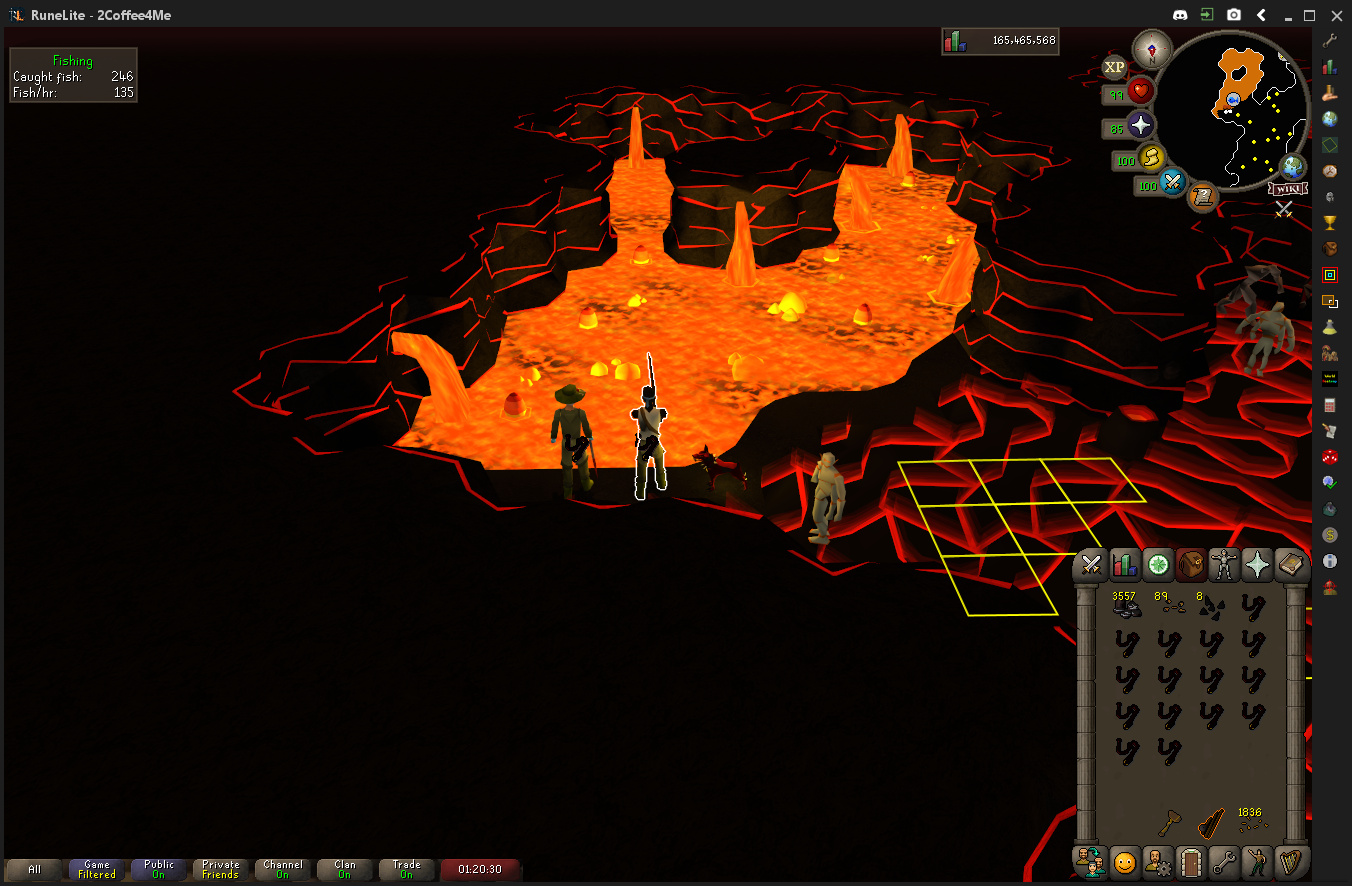
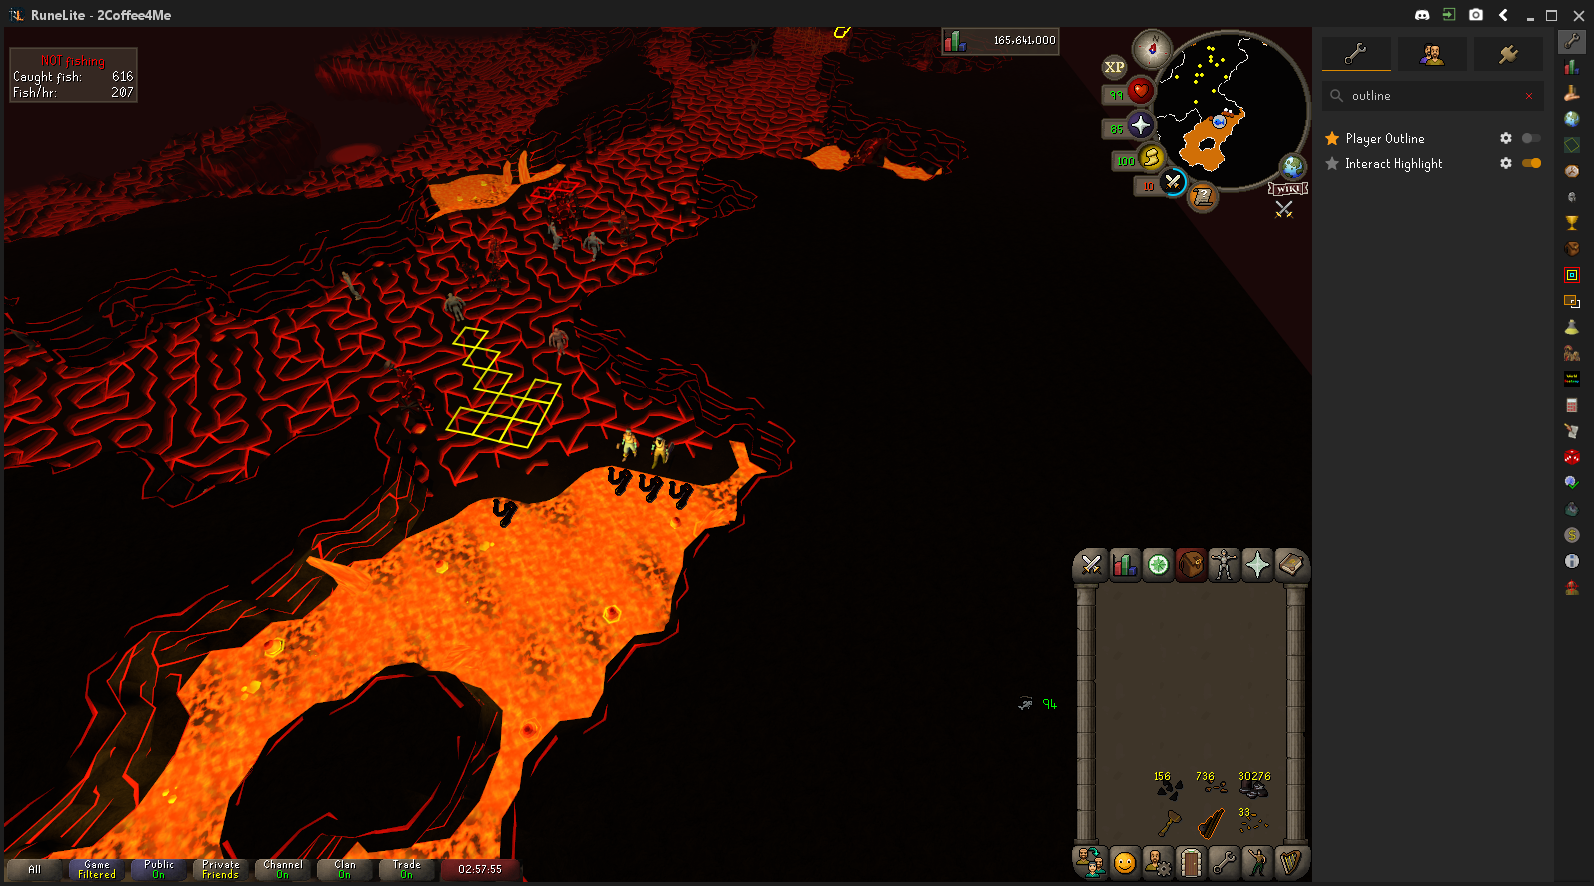
Added mouse functions
desc

diff --git a/common.py b/common.py
@@ -2,6 +2,7 @@
 import numpy as np
 import win32gui
 from PIL import Image, ImageGrab
+import pytesseract
 import pyautogui
 import math
 import time
@@ -17,6 +18,8 @@ runelite = 'RuneLite'
 winiD = -1
 window_x = 1920
 window_y = 1080
+tesseract_path = r'..\\..\\Tesseract-OCR\\tesseract.exe'
+can_see_inv = False
 
 #Functions ---------------------------------------------------------
 def find_window(DEBUG=False):  # find window name returns PID of the window, needs to be run first to establish the PID
@@ -26,9 +29,11 @@ def find_window(DEBUG=False):  # find window name returns PID of the window, nee
         if DEBUG:
             # print('Window enum fails after it works for some reason, I dont know what I am doing.')
             # Example on how to move and resize a window if needed, for debug it 
-            win32gui.MoveWindow(globals()['winiD'], 0, 0, int(globals()['window_x']/2), globals()['window_y'], True)
+            win32gui.MoveWindow(winiD, 0, 0, int(window_x/2), window_y, True)
     if globals()['winiD'] != -1:
         winiD = globals()['winiD']
+        # Mention the installed location of Tesseract-OCR in your system
+        pytesseract.pytesseract.tesseract_cmd = tesseract_path
         # win32gui.SetActiveWindow(winiD)
         if DEBUG:
             left, top, right, bottom = get_window_rect()
@@ -38,8 +43,13 @@ def find_window(DEBUG=False):  # find window name returns PID of the window, nee
     else:
         return False
 
+# Returns left, right, top, bottom
 def get_window_rect():
-    rect = win32gui.GetWindowRect(globals()['winiD'])
+    rect = win32gui.GetWindowRect(winiD)
+    # If the window isnt on the main monitor we need to move it so everything can work
+    # I'll try to work on a way to handle multiple monitors at some point :^)
+    # if len(rect) == 0:
+    #    win32gui.MoveWindow(winiD, 0, 0, rect[2]-rect[0], rect[3]-rect[1], True)
     return rect[0], rect[1], rect[2], rect[3]
 
 #Callback function for EnumWindows, once it finds the window its looking for, sets the global to the PID
@@ -59,10 +69,108 @@ def screen_image(x1=None, y1=None, x2=None, y2=None, name='screenshot.png', DEBU
     # Get the image via cv2 so I don't have to worry about whatever format it wants
     return cv2.imread('images/screenshot.png')
 
+def get_action_text(DEBUG=False):
+    scale = 300
+    left, top, right, bottom = get_window_rect()
+    # I don't identify the locaiton of the fishing/mining/woodcutting text, make sure it's dragged to the top,left area
+    screen_image(left+30, top+50, left+130, top+70, 'Session_Action.png')
+    img = resize_image(cv2.imread('images/Session_Action.png'), scale)
+    if DEBUG:
+        debug_view(img)
+
+    # Need to mask for green and red 
+    boundaries=[([0, 250, 0], [10, 255, 10])]
+    boundaries_not=[([0, 0, 250], [10, 10, 255])]
+    for (lower, upper) in boundaries:
+        # create NumPy arrays from the boundaries
+        lower = np.array(lower, dtype="uint8")
+        upper = np.array(upper, dtype="uint8")
+        img_g = copy.deepcopy(img)
+        # find the colors within the specified boundaries and apply the mask
+        mask_g = cv2.inRange(img_g, lower, upper)
+        output = cv2.bitwise_and(img_g, img_g, mask=mask_g)
+        ret, thresh_g = cv2.threshold(mask_g, 40, 255, 0)
+
+    for (lower, upper) in boundaries_not:
+        # create NumPy arrays from the boundaries
+        lower = np.array(lower, dtype="uint8")
+        upper = np.array(upper, dtype="uint8")
+        img_r = copy.deepcopy(img)
+        # find the colors within the specified boundaries and apply the mask
+        mask_r = cv2.inRange(img_r, lower, upper)
+        output = cv2.bitwise_and(img_r, img_r, mask=mask_r)
+        ret, thresh_r = cv2.threshold(mask_r, 40, 255, 0)
+    
+    # Specify structure shape and kernel size.
+    # Kernel size increases or decreases the area
+    # of the rectangle to be detected.
+    # A smaller value like (10, 10) will detect
+    # each word instead of a sentence.
+    rect_kernel_g = cv2.getStructuringElement(cv2.MORPH_RECT, (10, 10))
+    rect_kernel_r = cv2.getStructuringElement(cv2.MORPH_RECT, (20, 20))
+    
+    # Applying dilation on the threshold image
+    dilation_g = cv2.dilate(thresh_g, rect_kernel_g, iterations = 1)
+    dilation_r = cv2.dilate(thresh_r, rect_kernel_r, iterations = 1)
+    
+    # Finding contours
+    contours_g, hierarchy = cv2.findContours(dilation_g, cv2.RETR_EXTERNAL,
+                                                    cv2.CHAIN_APPROX_NONE)
+    contours_r, hierarchy = cv2.findContours(dilation_r, cv2.RETR_EXTERNAL,
+                                                    cv2.CHAIN_APPROX_NONE)
+    if DEBUG:
+        draw_contour = cv2.drawContours(copy.deepcopy(img), contours_g, 0, color=(255,0,0), thickness=2)
+        debug_view(draw_contour, "Contours Fishing")
+        draw_contour = cv2.drawContours(copy.deepcopy(img), contours_r, 0, color=(255,0,0), thickness=2)
+        debug_view(draw_contour, "Contours NOT Fishing")
+
+    # Creating a copy of image
+    im2 = img.copy()
+    im3 = img.copy()
+    
+    # Looping through the identified contours
+    # Then rectangular part is cropped and passed on
+    # to pytesseract for extracting text from it
+    working = False
+    not_working = False
+
+    for cnt in contours_g:
+        x, y, w, h = cv2.boundingRect(cnt)
+        # Cropping the text block for giving input to OCR
+        cropped = im2[y:y + h, x:x + w]
+        text = pytesseract.image_to_string(cropped)
+        working = True
+
+        if DEBUG:
+            # Drawing a rectangle on copied image
+            rect = cv2.rectangle(im2, (x, y), (x + w, y + h), (0, 255, 0), 2)
+            print('(GREEN) WE ARE: %s'%(text))
+            debug_view(rect)
+
+    for cnt in contours_r:
+        x, y, w, h = cv2.boundingRect(cnt)
+        # Cropping the text block for giving input to OCR
+        cropped = im3[y:y + h, x:x + w]
+        text = pytesseract.image_to_string(cropped)
+        not_working = True
+
+        if DEBUG:
+            # Drawing a rectangle on copied image
+            rect = cv2.rectangle(im3, (x, y), (x + w, y + h), (0, 255, 0), 2)
+            print('(RED) WE ARE: %s'%(text))
+            debug_view(rect)
+
+    # 2 means there is no action text, or it failed to find anything, this distinction might not be necessary
+    result = 2
+    if working:
+        result = 0
+    elif not_working:
+        result = 1
+    return result
+
 # Covers username top left
 def isolate_min(image):
-    left, top, right, bottom = get_window_rect()
-    image = cv2.rectangle(image, pt1=(left, top), pt2=(200, 25), color=(0, 0, 0), thickness=-1)
+    image = cv2.rectangle(image, pt1=(0, 0), pt2=(200, 25), color=(0, 0, 0), thickness=-1)
     return image
 
 # Block the locations of the username in the client title, the chatbox, and also block the inventory from the image
@@ -87,14 +195,18 @@ def isolate_playspace(image):
 
 def grab_inventory(img, DEBUG=False):
     image = copy.deepcopy(img)
-    [x1, y1, x2, y2] = find_inventory(image, DEBUG=DEBUG)
-    left, top, right, bottom = get_window_rect()
-    screen_image(x1+left, y1+top, x2+left, y2+top, 'Session_Inventory.png', DEBUG=DEBUG)
+    try:
+        [x1, y1, x2, y2] = find_inventory(image, DEBUG=DEBUG)
+        left, top, right, bottom = get_window_rect()
+        screen_image(x1+left, y1+top, x2+left, y2+top, 'Session_Inventory.png', DEBUG=DEBUG)
 
-    if DEBUG:
-        debug_view(image, "Session Inv")
-
-    return image
+        if DEBUG:
+            debug_view(image, "Session Inv")
+        can_see_inv = True
+        return image
+    except:
+        can_see_inv = False
+        return False
 
 # Locate the inventory on the client screen and returns the corners
 def find_inventory(image, threshold=0.7, DEBUG=False):
@@ -110,7 +222,7 @@ def find_inventory(image, threshold=0.7, DEBUG=False):
         cv2.rectangle(image_gray, pt, (pt[0] + w, pt[1] + h), (0, 0, 255), 2)
         # cv2.circle(image, pt, radius=10, color=(255,0,0), thickness=2)
     try:
-        x1, y1, x2, y2 = pt[0]+20, pt[1]+35, pt[0] + 200, pt[1] + 290
+        x1, y1, x2, y2 = pt[0]+20, pt[1]+35, pt[0] + 200, pt[1] + 293
         if DEBUG:
             cv2.rectangle(image, (x1, y1), (x2, y2), (0, 0, 255), 2)
             print(x1, y1, x2, y2)
@@ -120,8 +232,10 @@ def find_inventory(image, threshold=0.7, DEBUG=False):
         globals()['y1'] = y1
         globals()['x2'] = x2
         globals()['y2'] = y2
+        can_see_inv = True
         return [x1, y1, x2, y2]
     except:
+        can_see_inv = False
         return []
 
 # Locate the chat area on the client screen and returns the corners
@@ -156,8 +270,10 @@ def locate_color(image, boundaries=[([180, 0, 180], [220, 20, 220])], DEBUG=Fals
         output = cv2.bitwise_and(image, image, mask=mask)
         ret, thresh = cv2.threshold(mask, 40, 255, 0)
         contours, hierarchy = cv2.findContours(thresh, cv2.RETR_EXTERNAL, cv2.CHAIN_APPROX_NONE)
+
     if DEBUG:
             cv2.imwrite("images/Locate_Image_DebugPRE.png", image)
+
     if len(contours) != 0:
         # find the biggest countour by the area -> usually implies the closest contour to the camera
         c = max(contours, key=cv2.contourArea)
@@ -187,34 +303,38 @@ def locate_color(image, boundaries=[([180, 0, 180], [220, 20, 220])], DEBUG=Fals
     else:
         return []
     
-def locate_image(img_rgb, filename, threshold=0.7, area='none', name='Screenshot', DEBUG_1=False, DEBUG_2=False):
-    # If the image is expected to be found outside the inventory, inside the inventory, or it does not matter
-        
-    img_gray = cv2.cvtColor(img_rgb, cv2.COLOR_BGR2GRAY)
-    template = cv2.imread('images/' + filename, 0)
-    w, h = template.shape[::-1]
-    pt = None
-    res = cv2.matchTemplate(img_gray, template, cv2.TM_CCOEFF_NORMED)
-    loc = np.where(res >= threshold)
-    items = []
-    # Add a mask to remove duplicate matches
-    mask = np.zeros(img_rgb.shape[:2], np.uint8)
-    for pt in zip(*loc[::-1]):
-        # Add a circle to mark a match
+def locate_image(img_rgb, filename, threshold=0.7, name='Screenshot', DEBUG_1=False, DEBUG_2=False):
+    try:
+        img_gray = cv2.cvtColor(img_rgb, cv2.COLOR_BGR2GRAY)
+        template = cv2.imread('images/' + filename, 0)
+        w, h = template.shape[::-1]
+        pt = None
+        res = cv2.matchTemplate(img_gray, template, cv2.TM_CCOEFF_NORMED)
+        loc = np.where(res >= threshold)
+        items = []
+        # Add a mask to remove duplicate matches
+        mask = np.zeros(img_rgb.shape[:2], np.uint8)
+        for pt in zip(*loc[::-1]):
+            # Add a circle to mark a match
+            if DEBUG_2:
+                cv2.rectangle(img_rgb, pt, (pt[0] + w, pt[1] + h), (255, 0, 0), thickness=1)
+            if mask[pt[1] + int(round(h/2)), pt[0] + int(round(w/2))] != 255:
+                mask[pt[1]:pt[1]+h, pt[0]:pt[0]+w] = 255
+                # An array of points
+                items.append([pt[0]+math.floor(w/2), pt[1]+math.floor(h/2)])
+                if DEBUG_1:
+                    cv2.circle(img_rgb, (pt[0]+math.floor(w/2), pt[1]+math.floor(h/2)), radius=min(math.floor(w/3), math.floor(h/3)), color=(0,255,0), thickness=1)
         if DEBUG_2:
-            cv2.rectangle(img_rgb, pt, (pt[0] + w, pt[1] + h), (255, 0, 0), thickness=1)
-        if mask[pt[1] + int(round(h/2)), pt[0] + int(round(w/2))] != 255:
-            mask[pt[1]:pt[1]+h, pt[0]:pt[0]+w] = 255
-            # An array of points
-            items.append([pt[0]+math.floor(w/2), pt[1]+math.floor(h/2)])
-            if DEBUG_1:
-                cv2.circle(img_rgb, (pt[0]+math.floor(w/2), pt[1]+math.floor(h/2)), radius=min(math.floor(w/3), math.floor(h/3)), color=(0,255,0), thickness=1)
-    if DEBUG_2:
-        cv2.imshow(name, np.hstack([img_rgb]))
-        cv2.waitKey(0)
-    if len(items) > 0:
-        return items
-    return []
+            cv2.imshow(name, np.hstack([img_rgb]))
+            cv2.waitKey(0)
+            time.sleep(0.5)
+        if len(items) > 0:
+            return items
+        print('Locate image could not find the image')
+        return []
+    except:
+        print('Locate image failed!')
+        return []
 
 # Resizes a given image by a integer percentage (like 70), helpful for viewing the entirety of a screenshot
 def resize_image(image, scale_percent):
@@ -237,7 +357,6 @@ def find_center(image=None, DEBUG=False):
 
 # takes an array of points, selects the point closest to the center of the client screen
 def click_here(points, rad=15, image=None, DEBUG=False):
-    x1,y1,x2,y2 = get_window_rect()
     #pick a point closest to the center of the screen?
     center = find_center()
     _dist = sys.maxsize
@@ -249,22 +368,40 @@ def click_here(points, rad=15, image=None, DEBUG=False):
         if dist < _dist:
             _dist = dist
             point = p
-    x, y = point[0], point[1]
     # Pick a point inside the click area
-    x_mouse = math.floor(random.uniform(x-rad, x+rad))
-    y_mouse = math.floor(random.uniform(y-rad, y+rad))
+    [x_mouse, y_mouse] = pick_point_in_circle(point[0], point[1], rad)
 
     if DEBUG:
         print('Moving mouse to: ', x_mouse, y_mouse)
-        image = cv2.circle(image, (x, y), radius=rad, color=(0, 0, 255), thickness=2)
+        image = cv2.circle(image, (point[0], point[1]), radius=rad, color=(0, 0, 255), thickness=2)
         image = cv2.circle(image, (x_mouse, y_mouse), radius=2, color=(0, 255, 0), thickness=2)
         debug_view(image)
 
-    b = random.uniform(0.07, 0.21)
-    # account for the location of the top left corner since that will offset the required position
-    pyautogui.moveTo(x_mouse + x1, y_mouse + y1, duration=b)
+    move_mouse([x_mouse, y_mouse], rad, DEBUG=False)
     b = random.uniform(0.01, 0.05)
     pyautogui.click(duration=b)
+
+def pick_point_in_circle(point, rad=15):
+    # Pick a point inside the circle defined by the center and the radius
+    x_mouse = math.floor(random.uniform(point[0]-rad, point[0]+rad))
+    y_mouse = math.floor(random.uniform(point[1]-rad, point[1]+rad))
+    return [x_mouse, y_mouse]
+
+def move_mouse(point, DEBUG=False):
+    x1, y1, x2, y2 = get_window_rect()
+    b = random.uniform(0.07, 0.21)
+    # account for the location of the top left corner since that will offset the required position
+    pyautogui.moveTo(point[0] + x1, point[1] + y1, duration=b)
+    b = random.uniform(0.07, 0.21)
+
+def control_camera(drag_to, rad=40, DEBUG=False):
+    # Move the mouse somewhere around the center of the client screen
+    point = find_center()
+    move_mouse(pick_point_in_circle(point, rad))
+
+    # Hold middle mouse and drag
+    b = random.uniform(0.1, 0.21)
+    pyautogui.dragRel(drag_to, button='middle', duration=b)
 
 # Locates and clicks the logout button at the bottom of inv, then clicks the actual logout button
 def click_logout(FAST=False, DEBUG=False):
@@ -324,6 +461,8 @@ if __name__ == "__main__":
     globals()['window_x'] = 1920
     globals()['window_y'] = 1040
 
+    # print('Did I do it right? ', os.path.exists(tesseract_path))
+
     id = find_window()
     if id:
         print('Get screenshot of window')
@@ -354,19 +493,29 @@ if __name__ == "__main__":
         #    # Scan for image
 
             # Get location for image
-        click_info = locate_image(copy.deepcopy(base_image), r'infernal_eel_spot.png', area='screen', name='Find Fishing Spots')
+        DEBUG1 = False
+        DEBUG2 = False
+        # debug_view(base_image)
+        click_info = locate_image(copy.deepcopy(base_image), r'infernal_eel_spot.png', name='Find Fishing Spots', DEBUG_1=DEBUG1, DEBUG_2=DEBUG2)
         print('I see %d eel spots'%(len(click_info)))
         #    attempt += 1
         #    print(attempt)
         base_image = refresh_session()
         inv = cv2.imread('images/Session_Inventory.png')
-        click_info = locate_image(copy.deepcopy(inv), r'infernal_eel_fish.png', area='inventory', name='Find Fish in Inv')
+        click_info = locate_image(copy.deepcopy(inv), r'infernal_eel_fish.png', name='Find Fish in Inv', DEBUG_1=DEBUG1, DEBUG_2=DEBUG2)
         if len(click_info) == 0:
             print('I have no eels')
         else:
             print('I have %d eels'%(len(click_info)))
-        click_info = locate_image(copy.deepcopy(inv), r'imcando_hammer.png', area='inventory', name='Find Imcando Hammer in Inv')
+        click_info = locate_image(copy.deepcopy(inv), r'imcando_hammer.png', name='Find Imcando Hammer in Inv', DEBUG_1=DEBUG1, DEBUG_2=DEBUG2)
         print('I have %d hammer'%(len(click_info)))
+
+        print('We are doing an action: ', get_action_text() is 0)
+
+        # Drag middle mouse from near-center to a random poing
+        rand = [random.randrange(-200,200), random.randrange(-200,200)]
+        control_camera(pick_point_in_circle(rand, rad=100))
+
         # Find Yellow
         # click_info = locate_color(base_image, boundaries=[([0, 245, 245], [10, 255, 255])], DEBUG=True)
         # print(click_info)

diff --git a/fishing.py b/fishing.py
@@ -26,7 +26,7 @@ from functions import random_quests
 from functions import random_skills
 from functions import random_inventory
 from functions import random_breaks
-from common import findWindow
+from common import find_window
 
 # from core import findWindow_runelite
 
